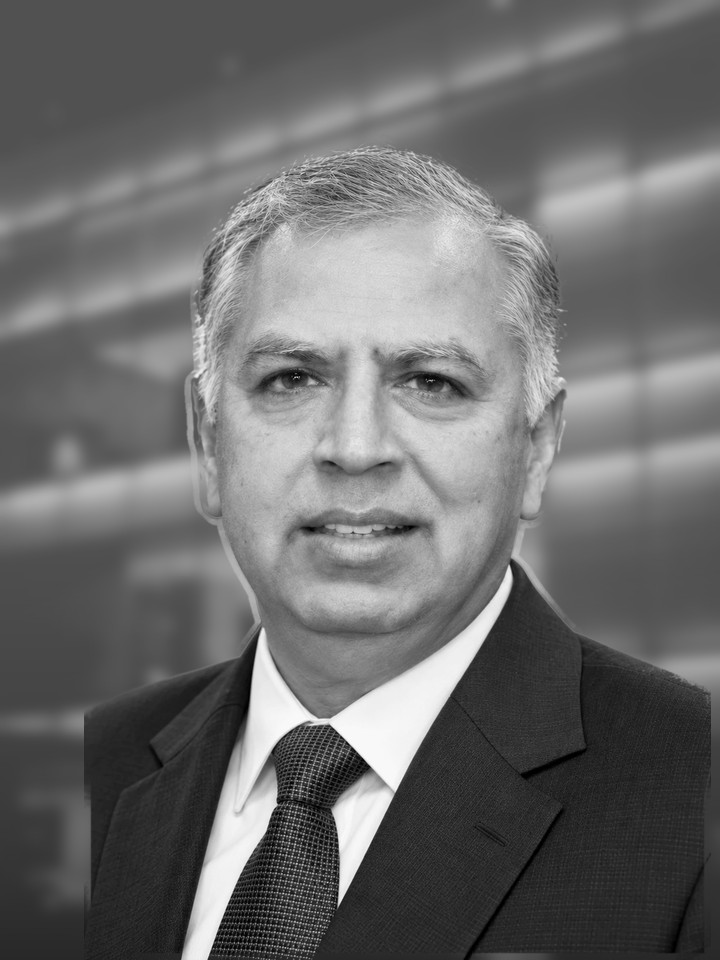
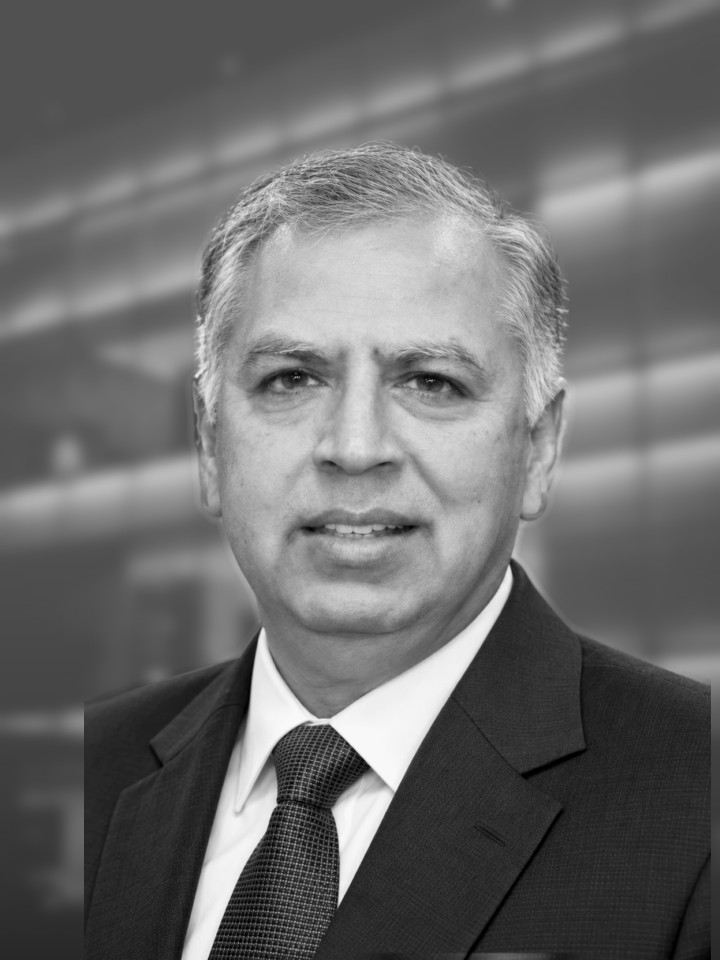
Un-mix the old backdrop instead of blending over it
The ring was still there on the tighter frames — Amit's and Sanjay's
worst. Testing each edge pixel against a quadratic fit of the
photograph's own background was not enough: a quadratic cannot hold
Sumit's office window or the 2026 set's spotlight, and a backdrop read
wrong at the silhouette is precisely where the halo comes from.

Two changes. The photograph's own backdrop is now estimated everywhere
by diffusing the known background inward over an image pyramid, so it
is right at the edge, which is all that matters. And the composite
un-mixes rather than blends: an edge pixel is a mix of the person and
the wall behind them, so that wall comes back out in the same
proportion as this one goes in — I + (1-a)(new - old). Where the mask
is opaque nothing moves; where it is clear the old wall is replaced
outright; in the band between, there is no ring left to see.

diff --git a/scripts/portraits/build.py b/scripts/portraits/build.py
@@ -73,22 +73,46 @@ def expose(a, box):
     g = min(max(np.log(FACE_TONE / 255) / np.log(max(med, 1) / 255), GAMMA_FLOOR), GAMMA_CEIL)
     return 255 * np.power(np.clip(a, 0, 255) / 255, g), med, g
 
+def infill(a, known):
+    """The photograph's own backdrop, everywhere — including behind the person.
+
+    A quadratic could not hold Sumit's office window or the 2026 set's
+    spotlight, and a backdrop read wrong at the silhouette is exactly where the
+    halo came from. This diffuses the known background inward over an image
+    pyramid: coarse levels carry it across the body, fine levels keep the
+    detail that matters, which is the few pixels either side of the edge.
+    """
+    F = lambda arr: Image.fromarray(arr.astype('float32'), 'F')
+    pyr = [(F(a * known), F(known.astype(float)))]
+    while min(pyr[-1][0].size) > 4:
+        half = tuple(max(v // 2, 1) for v in pyr[-1][0].size)
+        pyr.append(tuple(im.resize(half, Image.BILINEAR) for im in pyr[-1]))
+    est = None
+    for v, w in reversed(pyr):
+        V, W = np.asarray(v, dtype=float), np.asarray(w, dtype=float)
+        cur = V / np.maximum(W, 1e-6)
+        if est is not None:
+            up = np.asarray(F(est).resize(v.size, Image.BILINEAR), dtype=float)
+            conf = np.clip(W, 0, 1)
+            cur = cur * conf + up * (1 - conf)
+        est = cur
+    return est
+
 def alpha(a, m):
     """The mask runs a few pixels wide of the person, and those pixels are the
     photograph's own backdrop — carried along they ring the cut-out. So near the
-    edge, judge each pixel against that backdrop, fitted."""
+    edge, judge each pixel against that backdrop. Returns the coverage and the
+    backdrop, which the composite needs to subtract back out."""
     inner = ndimage.binary_erosion(m > 0.5, iterations=BAND)
     outer = ndimage.binary_dilation(m > 0.5, iterations=BAND)
-    h, w = a.shape
-    ys, xs = np.mgrid[0:h, 0:w]
-    x, y = xs / w, ys / h
-    bg = surface(fit(x[~outer], y[~outer], a[~outer]), w, h)
+    bg = infill(a, ~outer)
     edge = np.clip((np.abs(a - bg) - TOL) / TOL, 0, 1)
     al = np.where(inner, 1.0, np.where(outer, edge, 0.0))
-    return np.asarray(Image.fromarray((al * 255).astype('uint8')).filter(
+    al = np.asarray(Image.fromarray((al * 255).astype('uint8')).filter(
         ImageFilter.GaussianBlur(1.0)), dtype=float) / 255
+    return al, bg
 
-def place(a, al, box, size):
+def place(layers, box, size):
     """Scale and position the subject.
 
     Two rules pull against each other: the head should be the same size on every
@@ -100,28 +124,36 @@ def place(a, al, box, size):
     """
     W, H = size
     fx, fy, fw, fh = box
-    below = a.shape[0] - (fy + fh / 2)                    # body below the face centre
+    below = layers[0].shape[0] - (fy + fh / 2)            # body below the face centre
     k_fill = (1 - FACE_Y) * H / below                     # …just enough to reach the foot
     k = max((FACE_FRAC * H) / fh, min(k_fill, (FACE_FRAC_MAX * H) / fh))
-    sw, sh = round(a.shape[1] * k), round(a.shape[0] * k)
-    res = lambda arr: np.asarray(Image.fromarray(arr.astype('uint8')).resize((sw, sh), Image.LANCZOS), dtype=float)
-    sub, sal = res(a), res(al * 255) / 255
-    lay, lam = np.zeros((H, W)), np.zeros((H, W))
+    src_h, src_w = layers[0].shape
+    sw, sh = round(src_w * k), round(src_h * k)
+    res = lambda arr: np.asarray(Image.fromarray(arr.astype('float32'), 'F').resize((sw, sh), Image.BILINEAR), dtype=float)
     ox = round(W / 2 - (fx + fw / 2) * k)
     oy = round(max(FACE_Y * H - (fy + fh / 2) * k, H - sh))   # never leave a gap at the foot
     x0, y0, sx0, sy0 = max(ox, 0), max(oy, 0), max(-ox, 0), max(-oy, 0)
     w, h = min(sw - sx0, W - x0), min(sh - sy0, H - y0)
-    lay[y0:y0+h, x0:x0+w] = sub[sy0:sy0+h, sx0:sx0+w]
-    lam[y0:y0+h, x0:x0+w] = sal[sy0:sy0+h, sx0:sx0+w]
-    return lay, lam, (oy + (fy + fh / 2) * k) / H, fh * k / H
+    out = []
+    for arr in layers:
+        dst, src = np.zeros((H, W)), res(arr)
+        dst[y0:y0+h, x0:x0+w] = src[sy0:sy0+h, sx0:sx0+w]
+        out.append(dst)
+    return out, (oy + (fy + fh / 2) * k) / H, fh * k / H
 
 def make(name, src, size):
     path = f'{SRC}/{src}'
     box = face(path)
     m = person(path)
     a, med, g = expose(levels(np.asarray(Image.open(path).convert('L'), dtype=float)), box)
-    lay, lam, depth, frac = place(a, alpha(a, m), box, size)
-    out = np.clip(lay * lam + backdrop(*size) * (1 - lam), 0, 255)
+    al, bg = alpha(a, m)
+    (lay, lam, bgp), depth, frac = place([a, al, bg], box, size)
+    # Un-mix rather than blend. An edge pixel is a mix of the person and the
+    # backdrop they were shot against, so take that backdrop back out in the
+    # same proportion and put this one in: I + (1-a)(new - old). Where the
+    # mask is opaque nothing moves; where it is clear the old wall is replaced
+    # outright; in the band between, the ring simply is not there to see.
+    out = np.clip(lay + (1 - lam) * (backdrop(*size) - bgp), 0, 255)
     os.makedirs(OUT, exist_ok=True)
     Image.fromarray(out.astype('uint8')).save(f'{OUT}/{name}.jpg', quality=90, optimize=True, progressive=True)
     print(f'{name:20} face {med:3.0f} (gamma {g:.2f})  head {frac*100:.0f}% of frame, {depth*100:.0f}% down')
